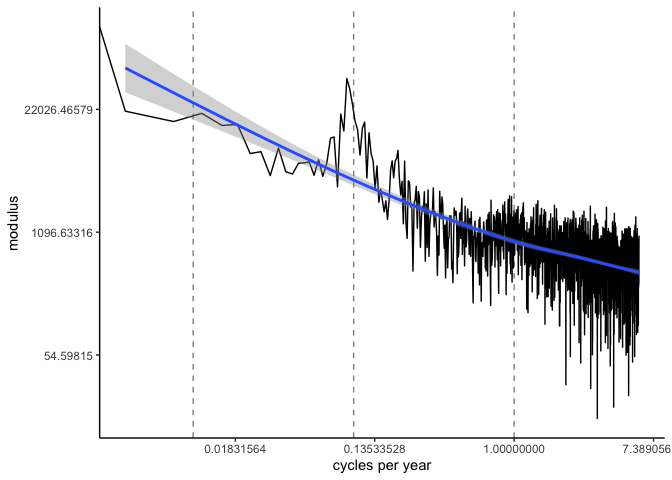
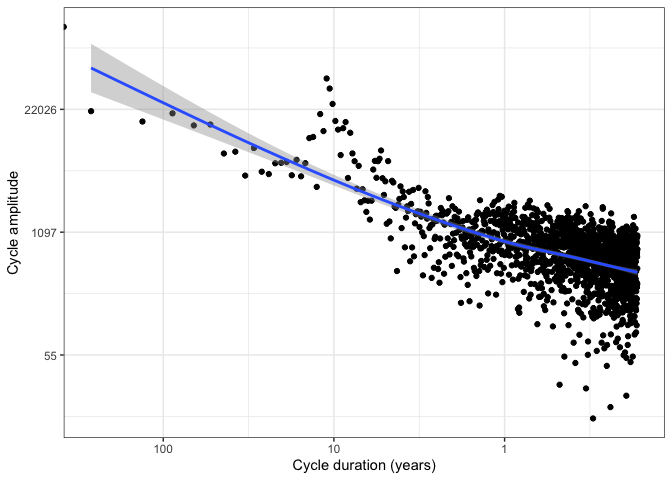
reknit

diff --git a/README.md b/README.md
@@ -27,15 +27,18 @@ This is a basic example which shows you how to solve a common problem:
 ``` r
 library(ggplot2)
 library(tidyfft)
+xlocs <- c(1, 0.1, 0.01)
+xlabs <- c("1", "10", "100")
 tidy_fft(sunspot.month) |>
-  plot() +
-  scale_y_continuous(trans = "log") +
-  scale_x_continuous(trans = "log") +
-  geom_vline(aes(xintercept = 1), lty = 2, alpha = 0.5) +
-  geom_vline(aes(xintercept = 0.1), lty = 2, alpha = 0.5) +
-  geom_vline(aes(xintercept = 0.01), lty = 2, alpha = 0.5) +
-  xlab("cycles per year") +
-  geom_smooth()
+  ggplot() +
+  aes(x = frequency, y = mod) +
+  geom_point() +
+  scale_y_continuous(trans = "log", labels = function(y) round(y)) +
+  scale_x_continuous(trans = "log", breaks = xlocs, labels = xlabs) +
+  xlab("Cycle duration (years)") +
+  ylab("Cycle amplitude") +
+  geom_smooth() +
+  theme_bw()
 #> `geom_smooth()` using method = 'gam' and formula = 'y ~ s(x, bs = "cs")'
 ```
 
